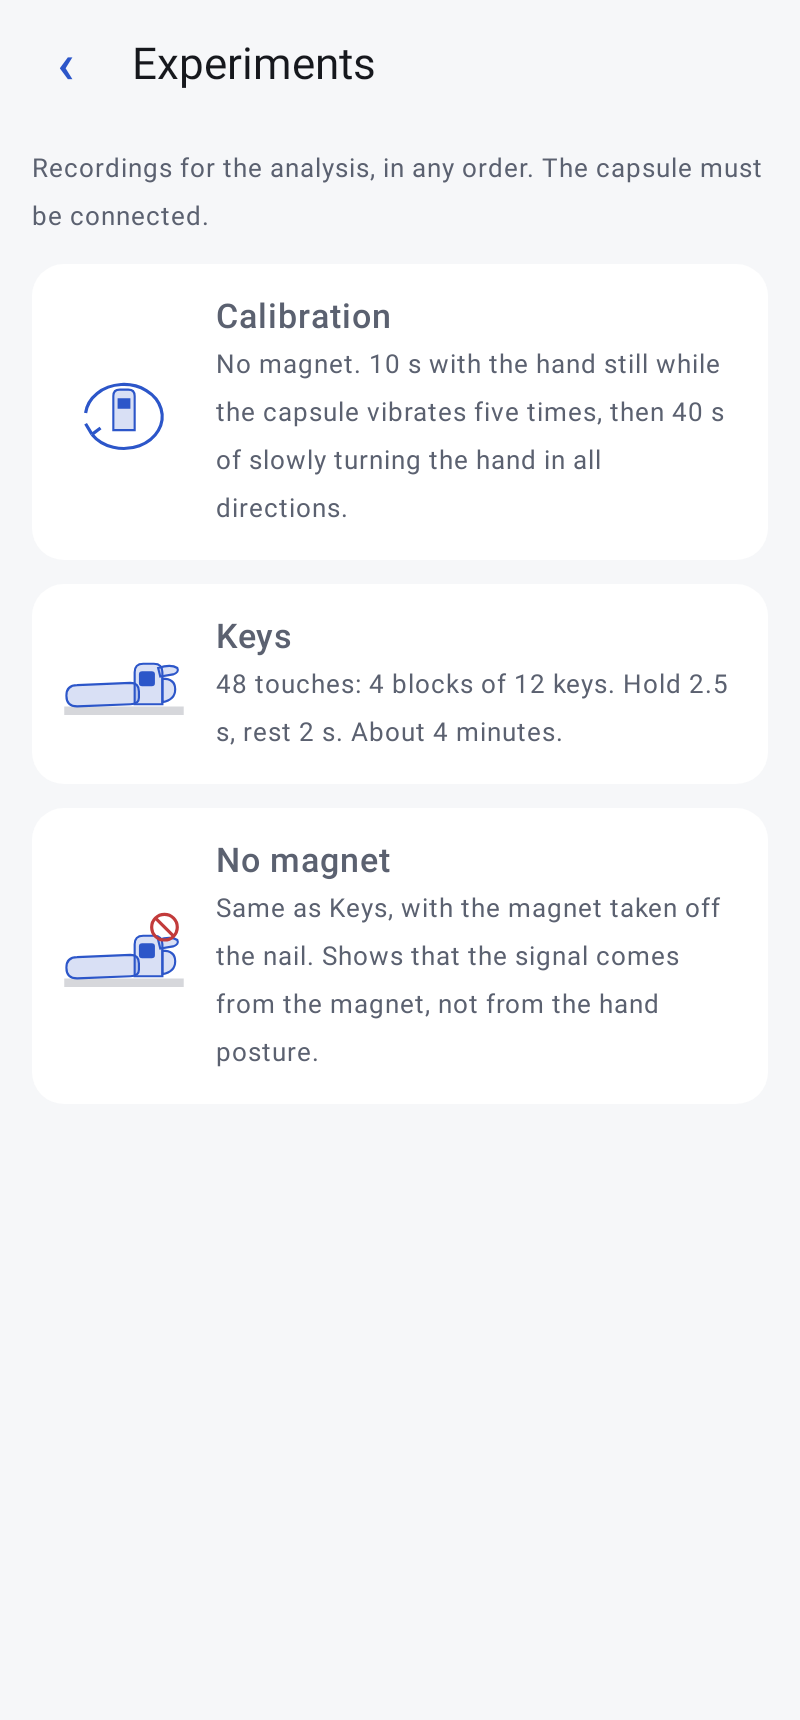
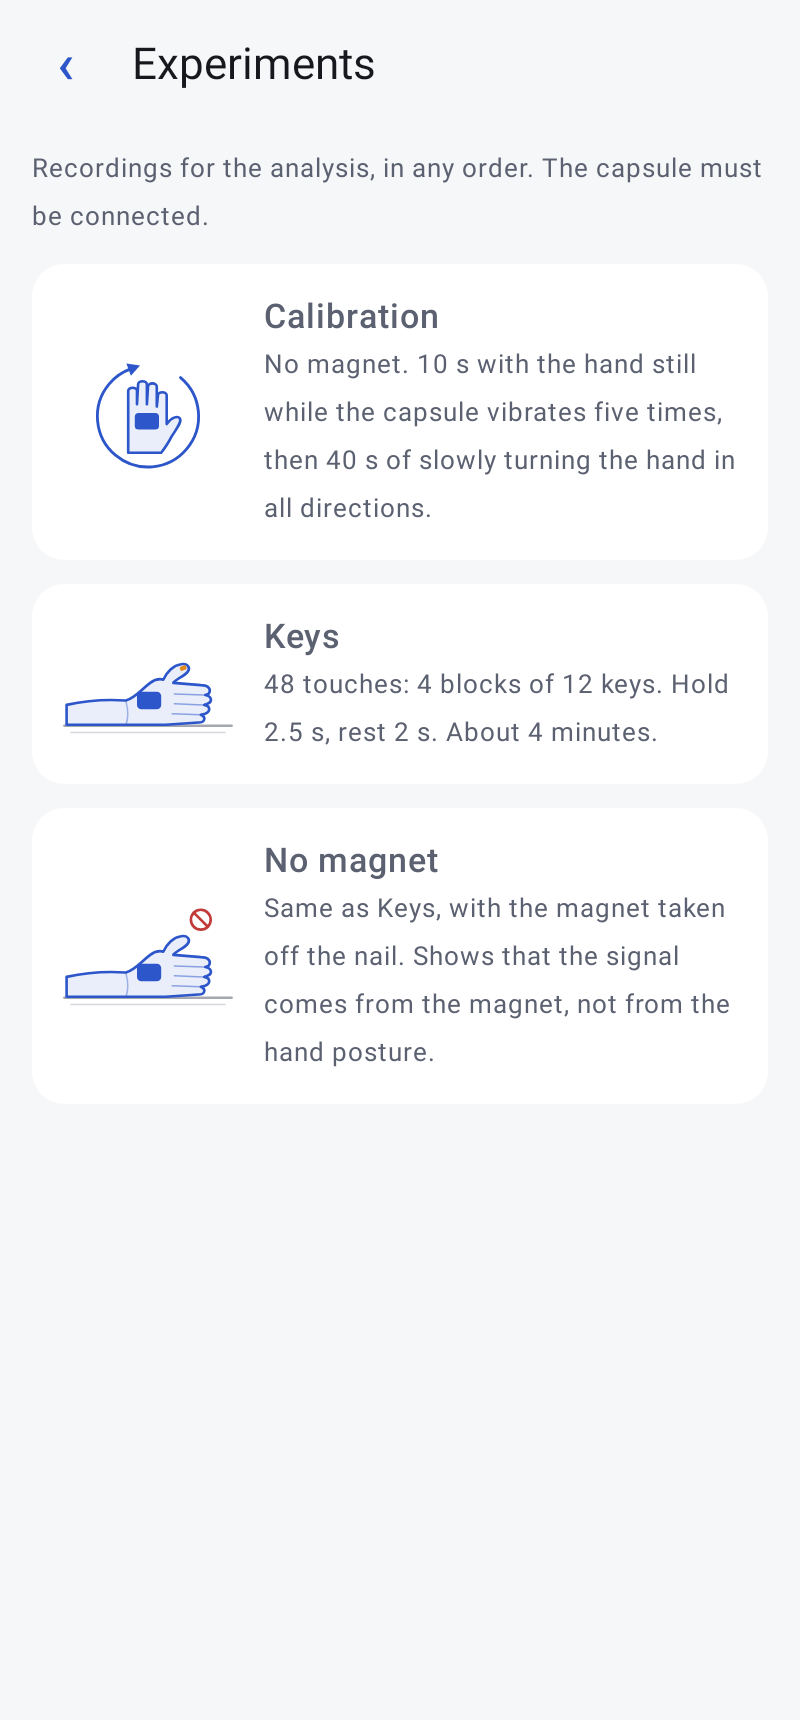
Line illustrations for postures, calibration and no-magnet; arrowhead along the arc
Claude-Session: https://claude.ai/code/session_01F5j466bbtpUkmFb5iPJXPh

diff --git a/android/app/src/main/java/com/telehaptic/app/ui/Drawings.kt b/android/app/src/main/java/com/telehaptic/app/ui/Drawings.kt
@@ -122,53 +122,71 @@ fun HandDiagram(
     }
 }
 
-/** Pictogram of a hand posture or of the calibration, flat two-tone style. */
+/** Line illustration of a hand posture or of the calibration (160 x 110 box, drawn to fit). */
 @Composable
 fun PosePicture(kind: String, modifier: Modifier = Modifier.size(72.dp)) {
-    val ink = MaterialTheme.colorScheme.onSurfaceVariant
     val accent = MaterialTheme.colorScheme.primary
-    val fill = accent.copy(alpha = 0.18f)
+    val fill = accent.copy(alpha = 0.10f)
+    val ground = MaterialTheme.colorScheme.onSurfaceVariant
+    val magnet = keyColor()
     val bad = Palette.bad
     Canvas(modifier) {
-        // All drawings use a 120 x 90 box, scaled to fit and centred.
-        val k = minOf(size.width / 120f, size.height / 90f)
-        val dx = (size.width - 120f * k) / 2
-        val dy = (size.height - 90f * k) / 2
-        fun p(d: String) = androidx.compose.ui.graphics.vector.PathParser().parsePathString(d).toPath()
-        fun shape(d: String, f: Color, o: Color?, w: Float = 2f) {
-            val path = p(d)
-            withTransform({ translate(dx, dy); scale(k, k, Offset.Zero) }) {
-                drawPath(path, f)
-                if (o != null) drawPath(path, o, style = Stroke(width = w))
-            }
-        }
-        val capsule = { d: String -> shape(d, accent, null) }
-        when (kind) {
-            "table", "nomagnet" -> {
-                shape("M4 66 H116 V74 H4 Z", ink.copy(alpha = 0.25f), null)                                 // table top
-                shape("M6 56 Q6 46 16 46 L66 44 Q74 44 74 52 L74 58 Q74 64 66 64 L16 66 Q6 66 6 56 Z", fill, accent)   // forearm lying on the table
-                shape("M70 64 L70 34 Q70 26 78 26 L88 26 Q96 26 96 34 L96 64 Z", fill, accent)               // hand standing on its edge
-                shape("M92 30 Q104 26 110 30 Q112 34 106 36 L94 38 Z", fill, accent)                        // thumb on top
-                shape("M96 40 Q108 40 108 50 Q108 60 96 62 Z", fill, accent)                                 // curled fingers
-                capsule("M74 36 Q74 33 77 33 L86 33 Q89 33 89 36 L89 44 Q89 47 86 47 L77 47 Q74 47 74 44 Z")   // capsule on the back of the hand
-                if (kind == "nomagnet") {
-                    shape("M98 6 A12 12 0 1 1 97.9 6 Z", Color.Transparent, bad, 3f)
-                    shape("M90 10 L106 26", Color.Transparent, bad, 3f)
+        val k = minOf(size.width / 160f, size.height / 110f)
+        val dx = (size.width - 160f * k) / 2
+        val dy = (size.height - 110f * k) / 2
+        fun path(d: String) = androidx.compose.ui.graphics.vector.PathParser().parsePathString(d).toPath()
+        withTransform({ translate(dx, dy); scale(k, k, Offset.Zero) }) {
+            val line = Stroke(width = 2.4f, cap = StrokeCap.Round, join = androidx.compose.ui.graphics.StrokeJoin.Round)
+            val thin = Stroke(width = 1.4f, cap = StrokeCap.Round)
+            fun body(d: String) { val q = path(d); drawPath(q, fill); drawPath(q, accent, style = line) }
+            fun stroke(d: String, c: Color, st: Stroke) = drawPath(path(d), c, style = st)
+            fun box(x: Float, y: Float, w: Float, h: Float, r: Float, c: Color) = drawRoundRect(c, Offset(x, y), Size(w, h), CornerRadius(r))
+            when (kind) {
+                "table", "nomagnet" -> {
+                    stroke("M4 93 H156", ground.copy(alpha = 0.55f), line)
+                    stroke("M10 99 H150", ground.copy(alpha = 0.25f), thin)
+                    body("M6 92 L6 74 C24 70 46 69 60 70 C68 68 74 60 82 54 C86 51 90 50 94 51 " +
+                        "C97 44 103 38 110 37 C116 36 119 40 116 44 C113 48 106 50 103 54 " +
+                        "L128 56 C135 56 138 60 135 64 L132 65 C138 66 139 71 134 73 L131 74 " +
+                        "C137 75 137 80 132 82 L128 83 C133 85 132 90 126 90 L96 92 Z")
+                    stroke("M104 64 L131 65 M104 73 L130 74 M102 82 L127 83", accent.copy(alpha = 0.5f), thin)
+                    stroke("M60 71 C62 78 62 86 60 92", accent.copy(alpha = 0.4f), thin)
+                    box(70f, 62f, 22f, 16f, 4f, accent)                                   // capsule
+                    if (kind == "table") {
+                        withTransform({ rotate(-20f, Offset(112f, 40.5f)) }) { box(109f, 38.5f, 6f, 4f, 1.2f, magnet) }
+                    } else {
+                        drawCircle(bad, 9f, Offset(128f, 22f), style = Stroke(width = 2.4f))
+                        stroke("M121.6 15.6 L134.4 28.4", bad, Stroke(width = 2.4f, cap = StrokeCap.Round))
+                    }
                 }
-            }
-            "down" -> {
-                shape("M60 4 A9 9 0 1 1 59.9 4 Z", fill, accent)                                              // head
-                shape("M48 24 Q48 20 52 20 L68 20 Q72 20 72 24 L72 58 L48 58 Z", fill, accent)               // torso
-                shape("M51 58 L58 58 L58 88 L51 88 Z M62 58 L69 58 L69 88 L62 88 Z", fill, accent)           // legs
-                shape("M74 22 Q80 22 80 28 L80 64 L74 64 Z", fill, accent)                                    // arm hanging down
-                shape("M73 64 L81 64 Q83 64 83 67 L83 78 Q83 82 79 82 L75 82 Q71 82 71 78 L71 67 Q71 64 73 64 Z", fill, accent)  // hand
-                capsule("M73 66 L81 66 L81 72 L73 72 Z")
-            }
-            "rotate" -> {
-                shape("M50 30 Q50 24 56 24 L64 24 Q70 24 70 30 L70 62 L50 62 Z", fill, accent)               // hand, back towards us
-                capsule("M54 32 L66 32 L66 42 L54 42 Z")
-                shape("M24 46 A36 30 0 1 1 30 66", Color.Transparent, accent, 3f)                              // turning arrow
-                shape("M30 66 L24 56 M30 66 L38 60", Color.Transparent, accent, 3f)
+                "down" -> {
+                    drawCircle(fill, 10f, Offset(80f, 15f)); drawCircle(accent, 10f, Offset(80f, 15f), style = line)
+                    body("M60 36 C52 36 47 41 47 49 L46 80 C46 83 48 84 50 84 L56 84 C58 84 59 83 59 80 L61 52")
+                    body("M100 36 C108 36 113 41 113 49 L114 80 C114 83 112 84 110 84 L104 84 C102 84 101 83 101 80 L99 52")
+                    body("M60 108 L60 50 C60 38 67 31 80 31 C93 31 100 38 100 50 L100 108")
+                    body("M47 84 C44 90 45 98 50 101 C55 103 59 99 59 93 L59 84")
+                    body("M101 84 L101 93 C101 99 105 103 110 101 C115 98 116 90 113 84")
+                    box(102.5f, 86f, 10f, 8f, 2f, accent)
+                }
+                "rotate" -> {
+                    body("M62 92 L62 36 C62 32 70 32 70 36 L70 48 L71 30 C71 26 79 26 79 30 L79 48 L80 32 C80 28 88 28 88 32 " +
+                        "L88 50 L89 40 C89 36 97 36 97 40 L97 66 C101 60 107 58 109 61 C111 64 106 70 101 78 C98 84 95 88 92 92 Z")
+                    box(68f, 56f, 22f, 15f, 3.5f, accent)
+                    val c = Offset(80f, 59f); val r = 46f
+                    val start = -50f; val sweep = 300f
+                    drawArc(accent, start, sweep, false, Offset(c.x - r, c.y - r), Size(2 * r, 2 * r), style = Stroke(width = 2.6f, cap = StrokeCap.Round))
+                    val a = Math.toRadians((start + sweep).toDouble())
+                    val n = Offset(kotlin.math.cos(a).toFloat(), kotlin.math.sin(a).toFloat())
+                    val t = Offset(-n.y, n.x)
+                    val e = c + n * r
+                    val head = androidx.compose.ui.graphics.Path().apply {
+                        moveTo((e + t * 9f).x, (e + t * 9f).y)
+                        lineTo((e + n * 6f - t * 2f).x, (e + n * 6f - t * 2f).y)
+                        lineTo((e - n * 6f - t * 2f).x, (e - n * 6f - t * 2f).y)
+                        close()
+                    }
+                    drawPath(head, accent)
+                }
             }
         }
     }

diff --git a/android/app/src/main/java/com/telehaptic/app/ui/Screens.kt b/android/app/src/main/java/com/telehaptic/app/ui/Screens.kt
@@ -212,7 +212,7 @@ private fun RecordingRow(f: File, item: Uploader.Item?, sent: Boolean, onShare: 
 private fun ExperimentCard(picture: String, title: String, text: String, onClick: () -> Unit) {
     Surface(onClick = onClick, shape = RoundedCornerShape(16.dp), color = MaterialTheme.colorScheme.surfaceVariant, modifier = Modifier.fillMaxWidth()) {
         Row(Modifier.padding(14.dp), verticalAlignment = Alignment.CenterVertically) {
-            PosePicture(picture, Modifier.size(64.dp))
+            PosePicture(picture, Modifier.width(88.dp).height(62.dp))
             Spacer(Modifier.width(14.dp))
             Column(Modifier.weight(1f)) {
                 Text(title, fontSize = 17.sp, fontWeight = FontWeight.SemiBold)
@@ -348,7 +348,7 @@ fun RunScreen(nav: Nav) {
                 else -> "" to ""
             }
             Spacer(Modifier.height(24.dp))
-            PosePicture("rotate", Modifier.size(120.dp).align(Alignment.CenterHorizontally))
+            PosePicture("rotate", Modifier.width(200.dp).height(138.dp).align(Alignment.CenterHorizontally))
             Text(big, fontSize = 26.sp, fontWeight = FontWeight.Bold, textAlign = TextAlign.Center, modifier = Modifier.fillMaxWidth())
             if (small.isNotEmpty()) Text(small, color = MaterialTheme.colorScheme.onSurfaceVariant, textAlign = TextAlign.Center, modifier = Modifier.fillMaxWidth())
             if (s.phase != Session.Phase.SAVING) Text("$left s", fontSize = 40.sp, textAlign = TextAlign.Center, modifier = Modifier.fillMaxWidth())
